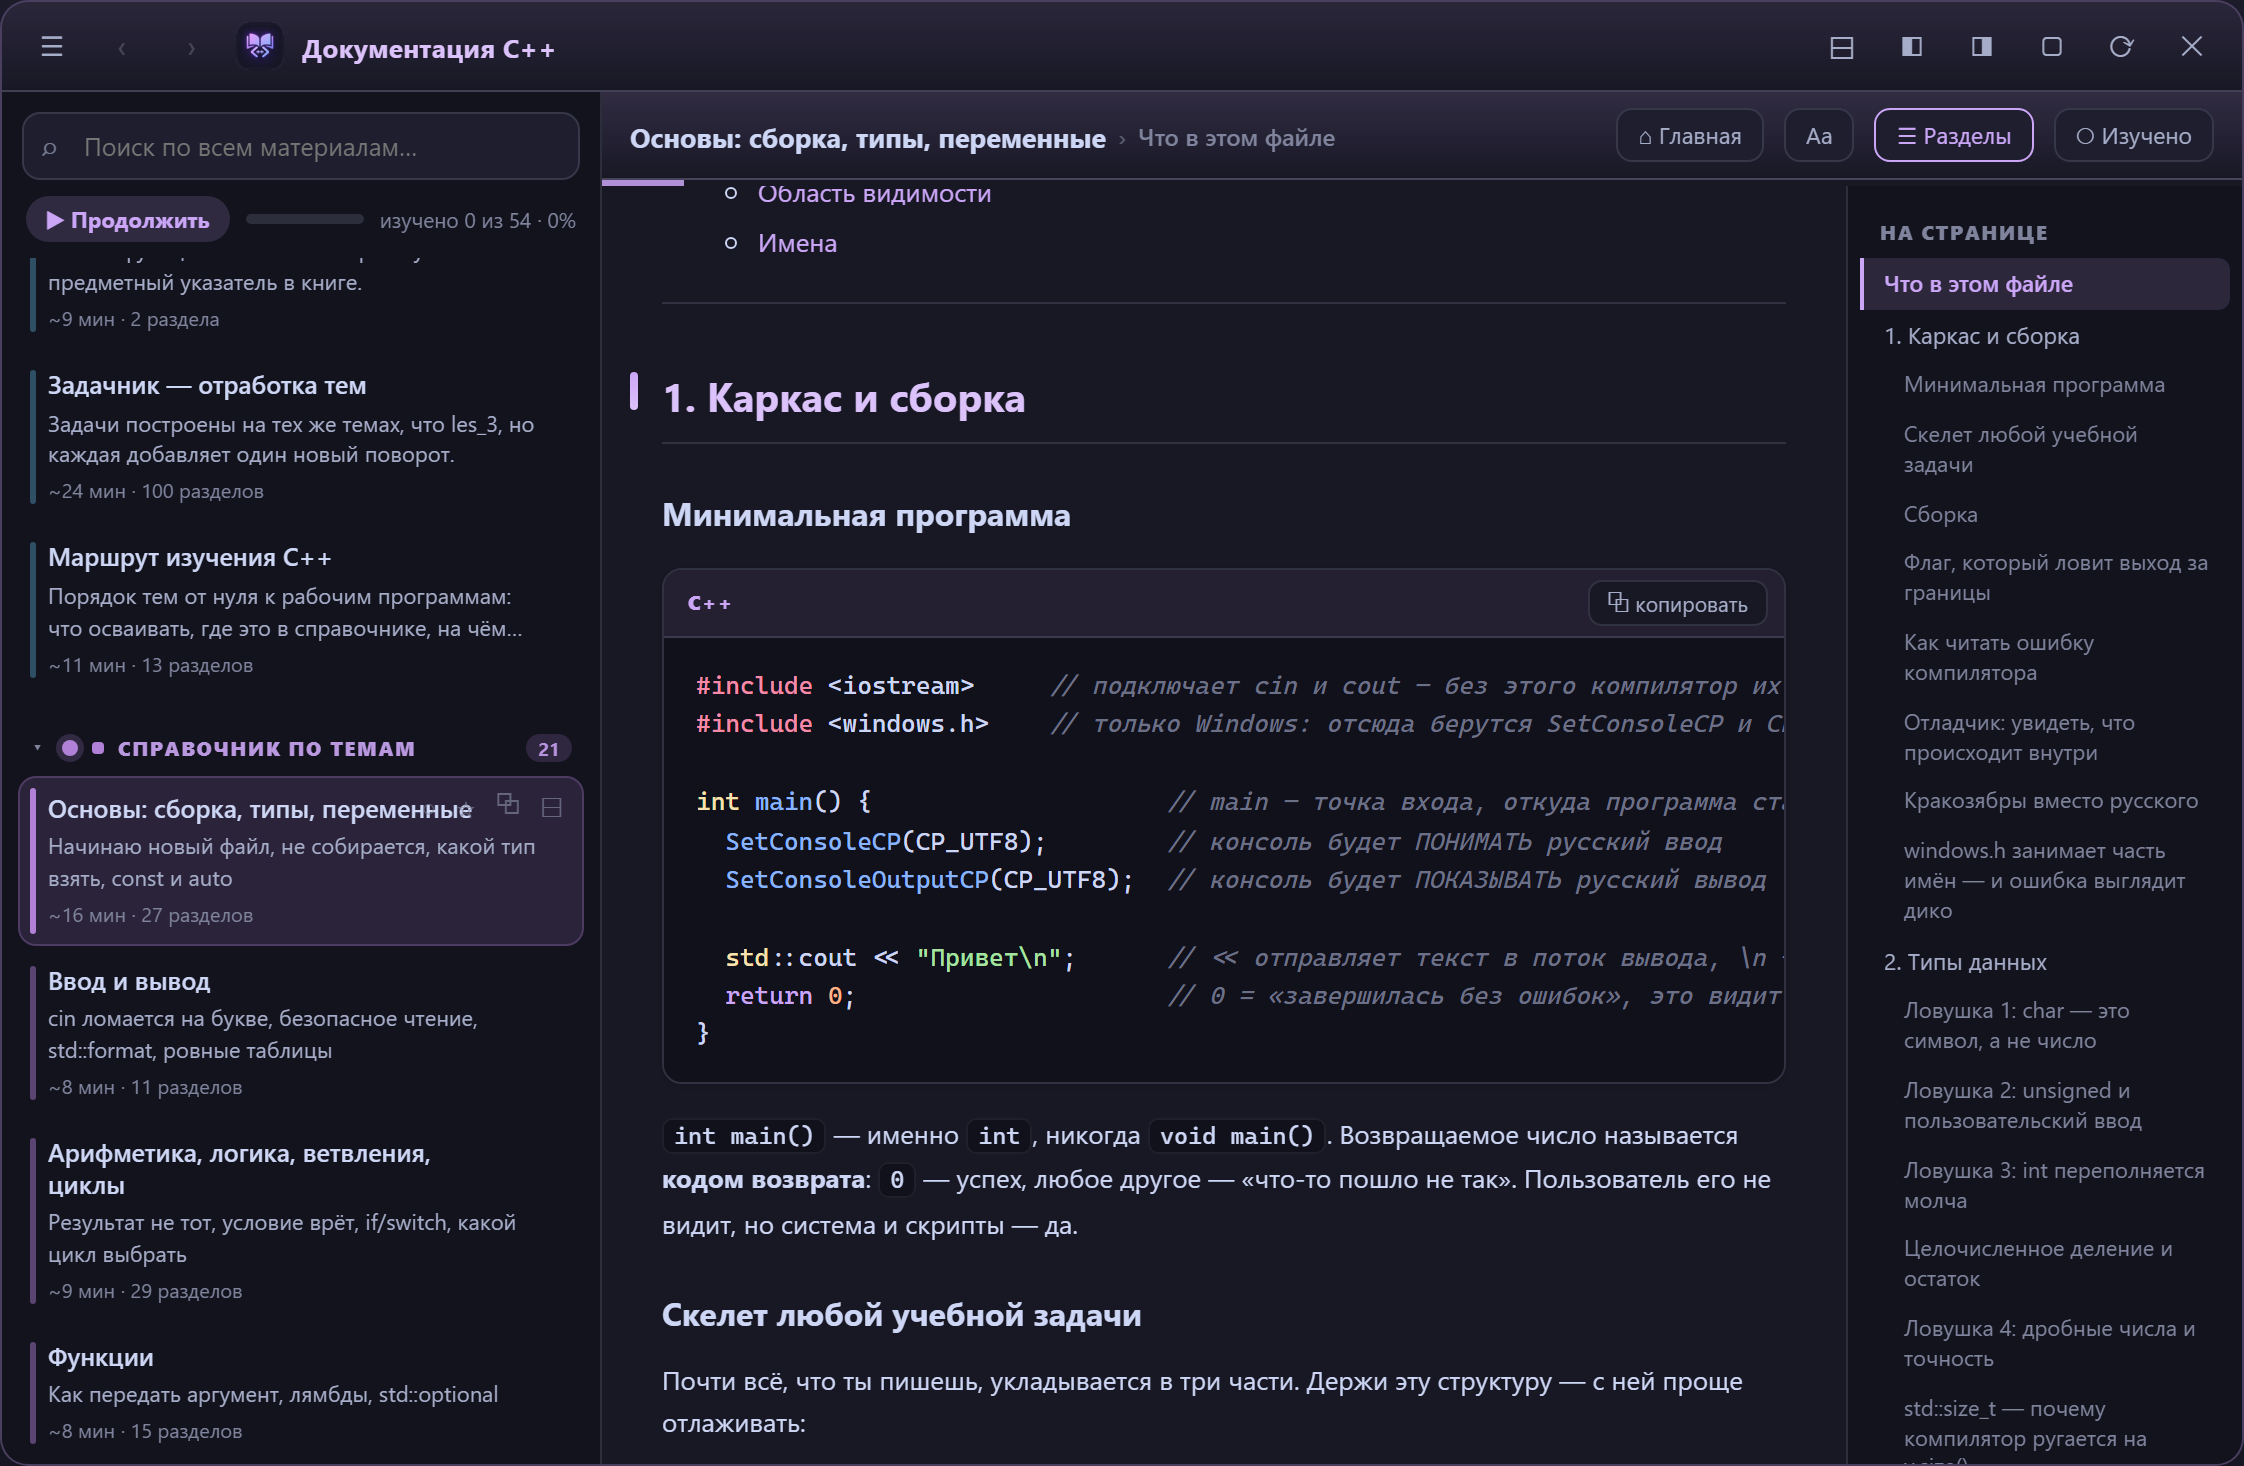
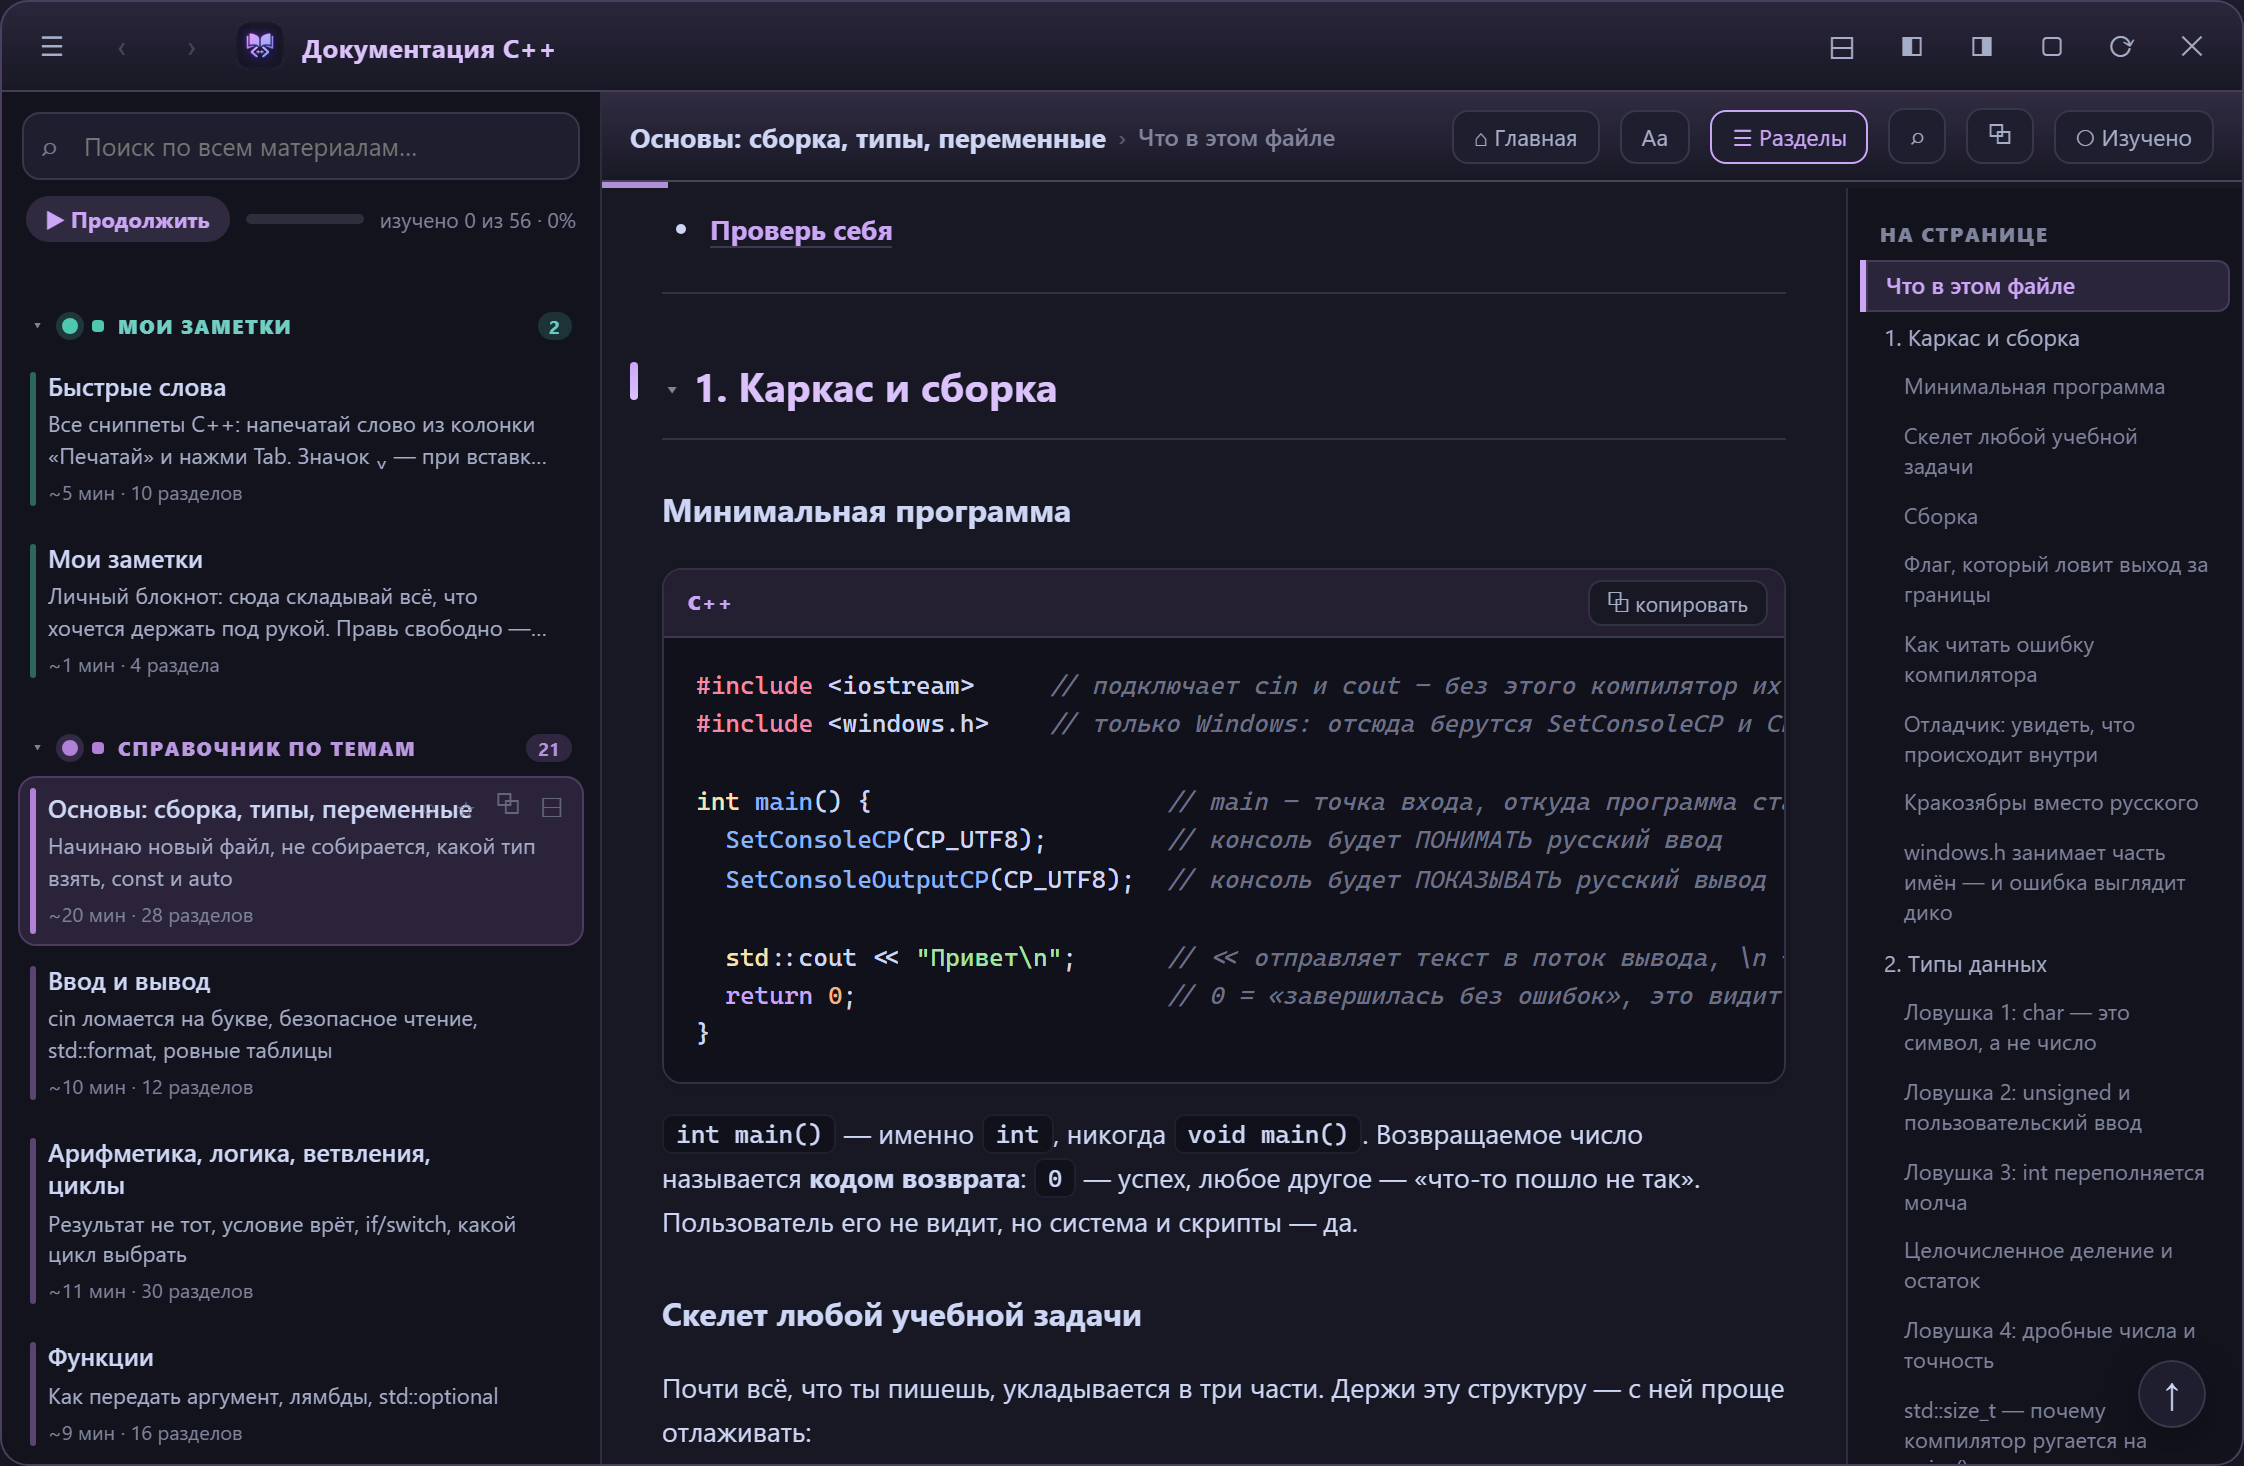
README и скриншоты под UI 3.5.0: пересняты hero/window/боковая, добавлен кадр с рисованной диаграммой и подпись; счётчики тестов актуализированы

diff --git a/scripts/screenshots.js b/scripts/screenshots.js
@@ -196,6 +196,28 @@ function editorBackdrop() {
         console.log("saved docs/screenshots/window.png");
         await ctxW.close();
 
+        // ---------- DIAGRAM: рисованная схема-наклейка в контексте материала ----------
+        var ctxD = await browser.newContext({ deviceScaleFactor: 2, viewport: { width: 1360, height: 850 }, colorScheme: "dark" });
+        var pageD = await ctxD.newPage();
+        await pageD.goto(base + "/build/preview-window.html", { waitUntil: "networkidle" });
+        var winD = pageD.locator("#cppdocs-window");
+        await winD.waitFor({ state: "visible", timeout: 10000 });
+        await pageD.locator("#cppdocs-window .cd-item", { hasText: "Основы: сборка, типы, переменные" }).first().click();
+        await pageD.waitForTimeout(800);
+        await pageD.evaluate(function () {
+          var content = document.querySelector("#cppdocs-window .cd-content");
+          var fig = document.querySelector("#cppdocs-window .cd-figure");   // первая фигура = рисованная схема int
+          if (content && fig) {
+            content.style.scrollBehavior = "auto";                          // мгновенно, без плавной прокрутки
+            var cr = content.getBoundingClientRect(), fr = fig.getBoundingClientRect();
+            content.scrollTop += (fr.top - cr.top) - 56;                    // фигуру к верху области чтения
+          }
+        });
+        await pageD.waitForTimeout(500);
+        await winD.screenshot({ path: path.join(OUT, "diagram.png") });
+        console.log("saved docs/screenshots/diagram.png");
+        await ctxD.close();
+
         // ---------- БОКОВАЯ ПАНЕЛЬ ----------
         var ctx2 = await browser.newContext({ deviceScaleFactor: 2, viewport: { width: 340, height: 820 }, colorScheme: "dark" });
         var page2 = await ctx2.newPage();
